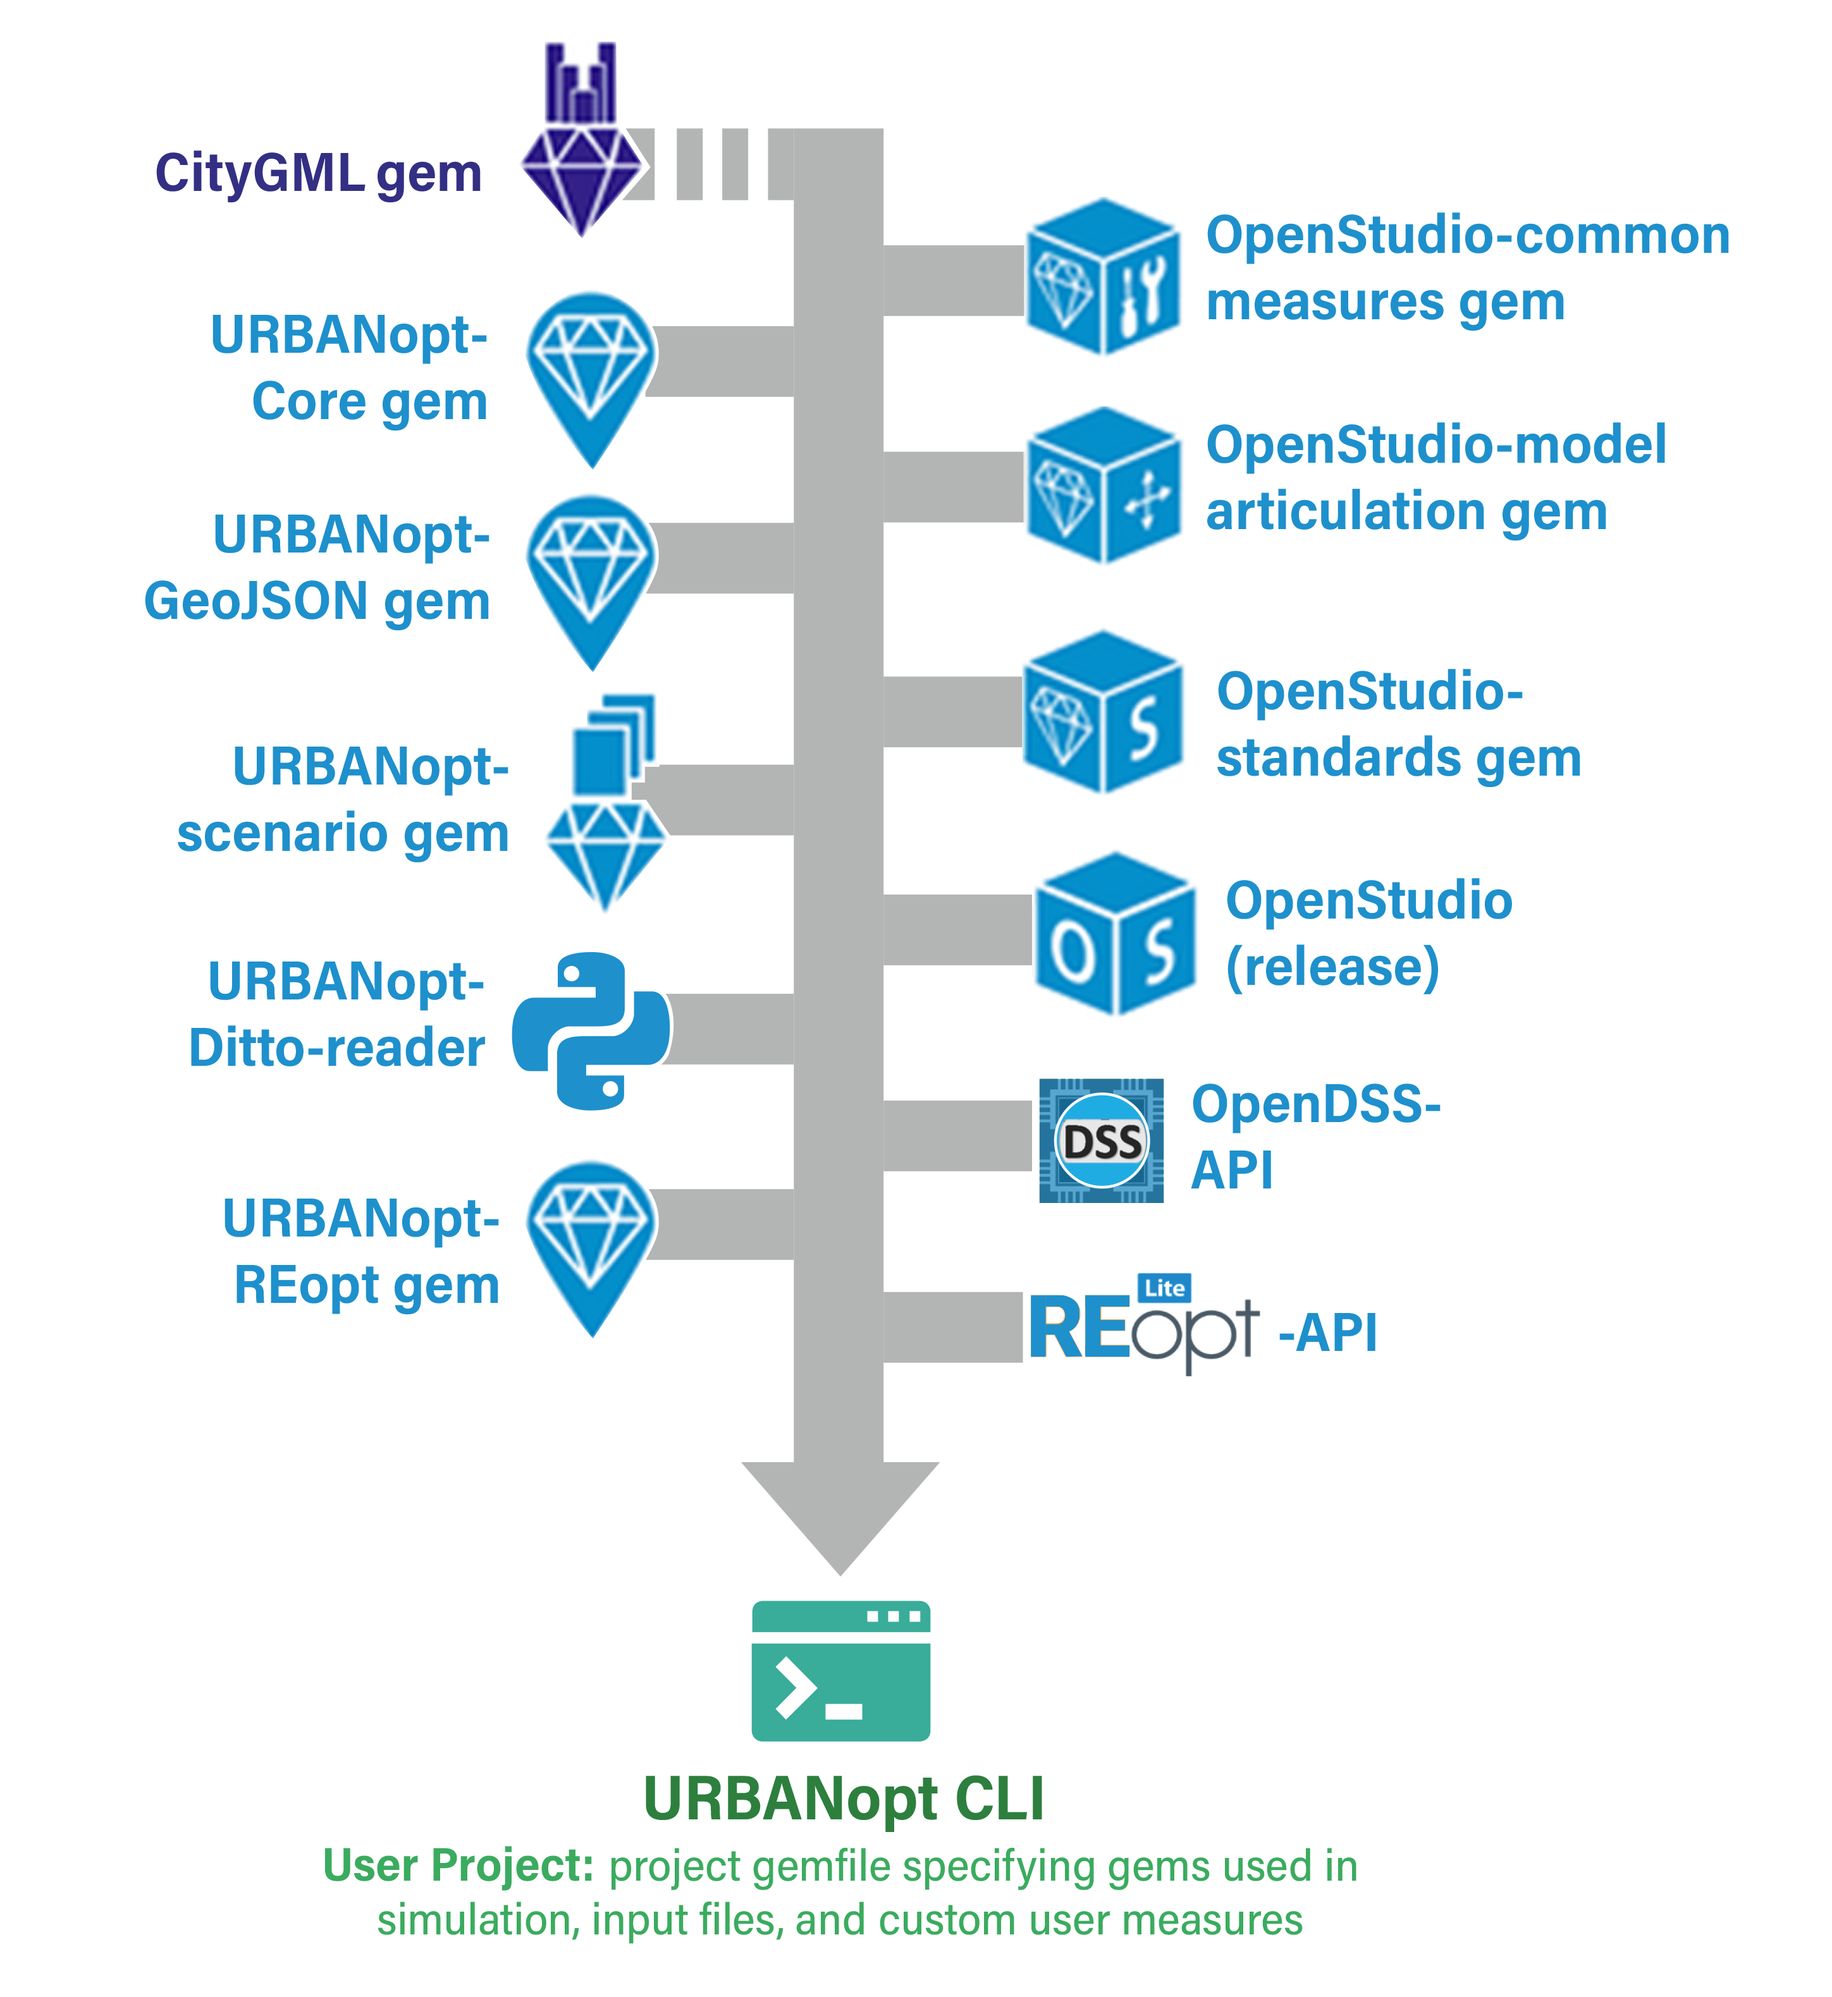
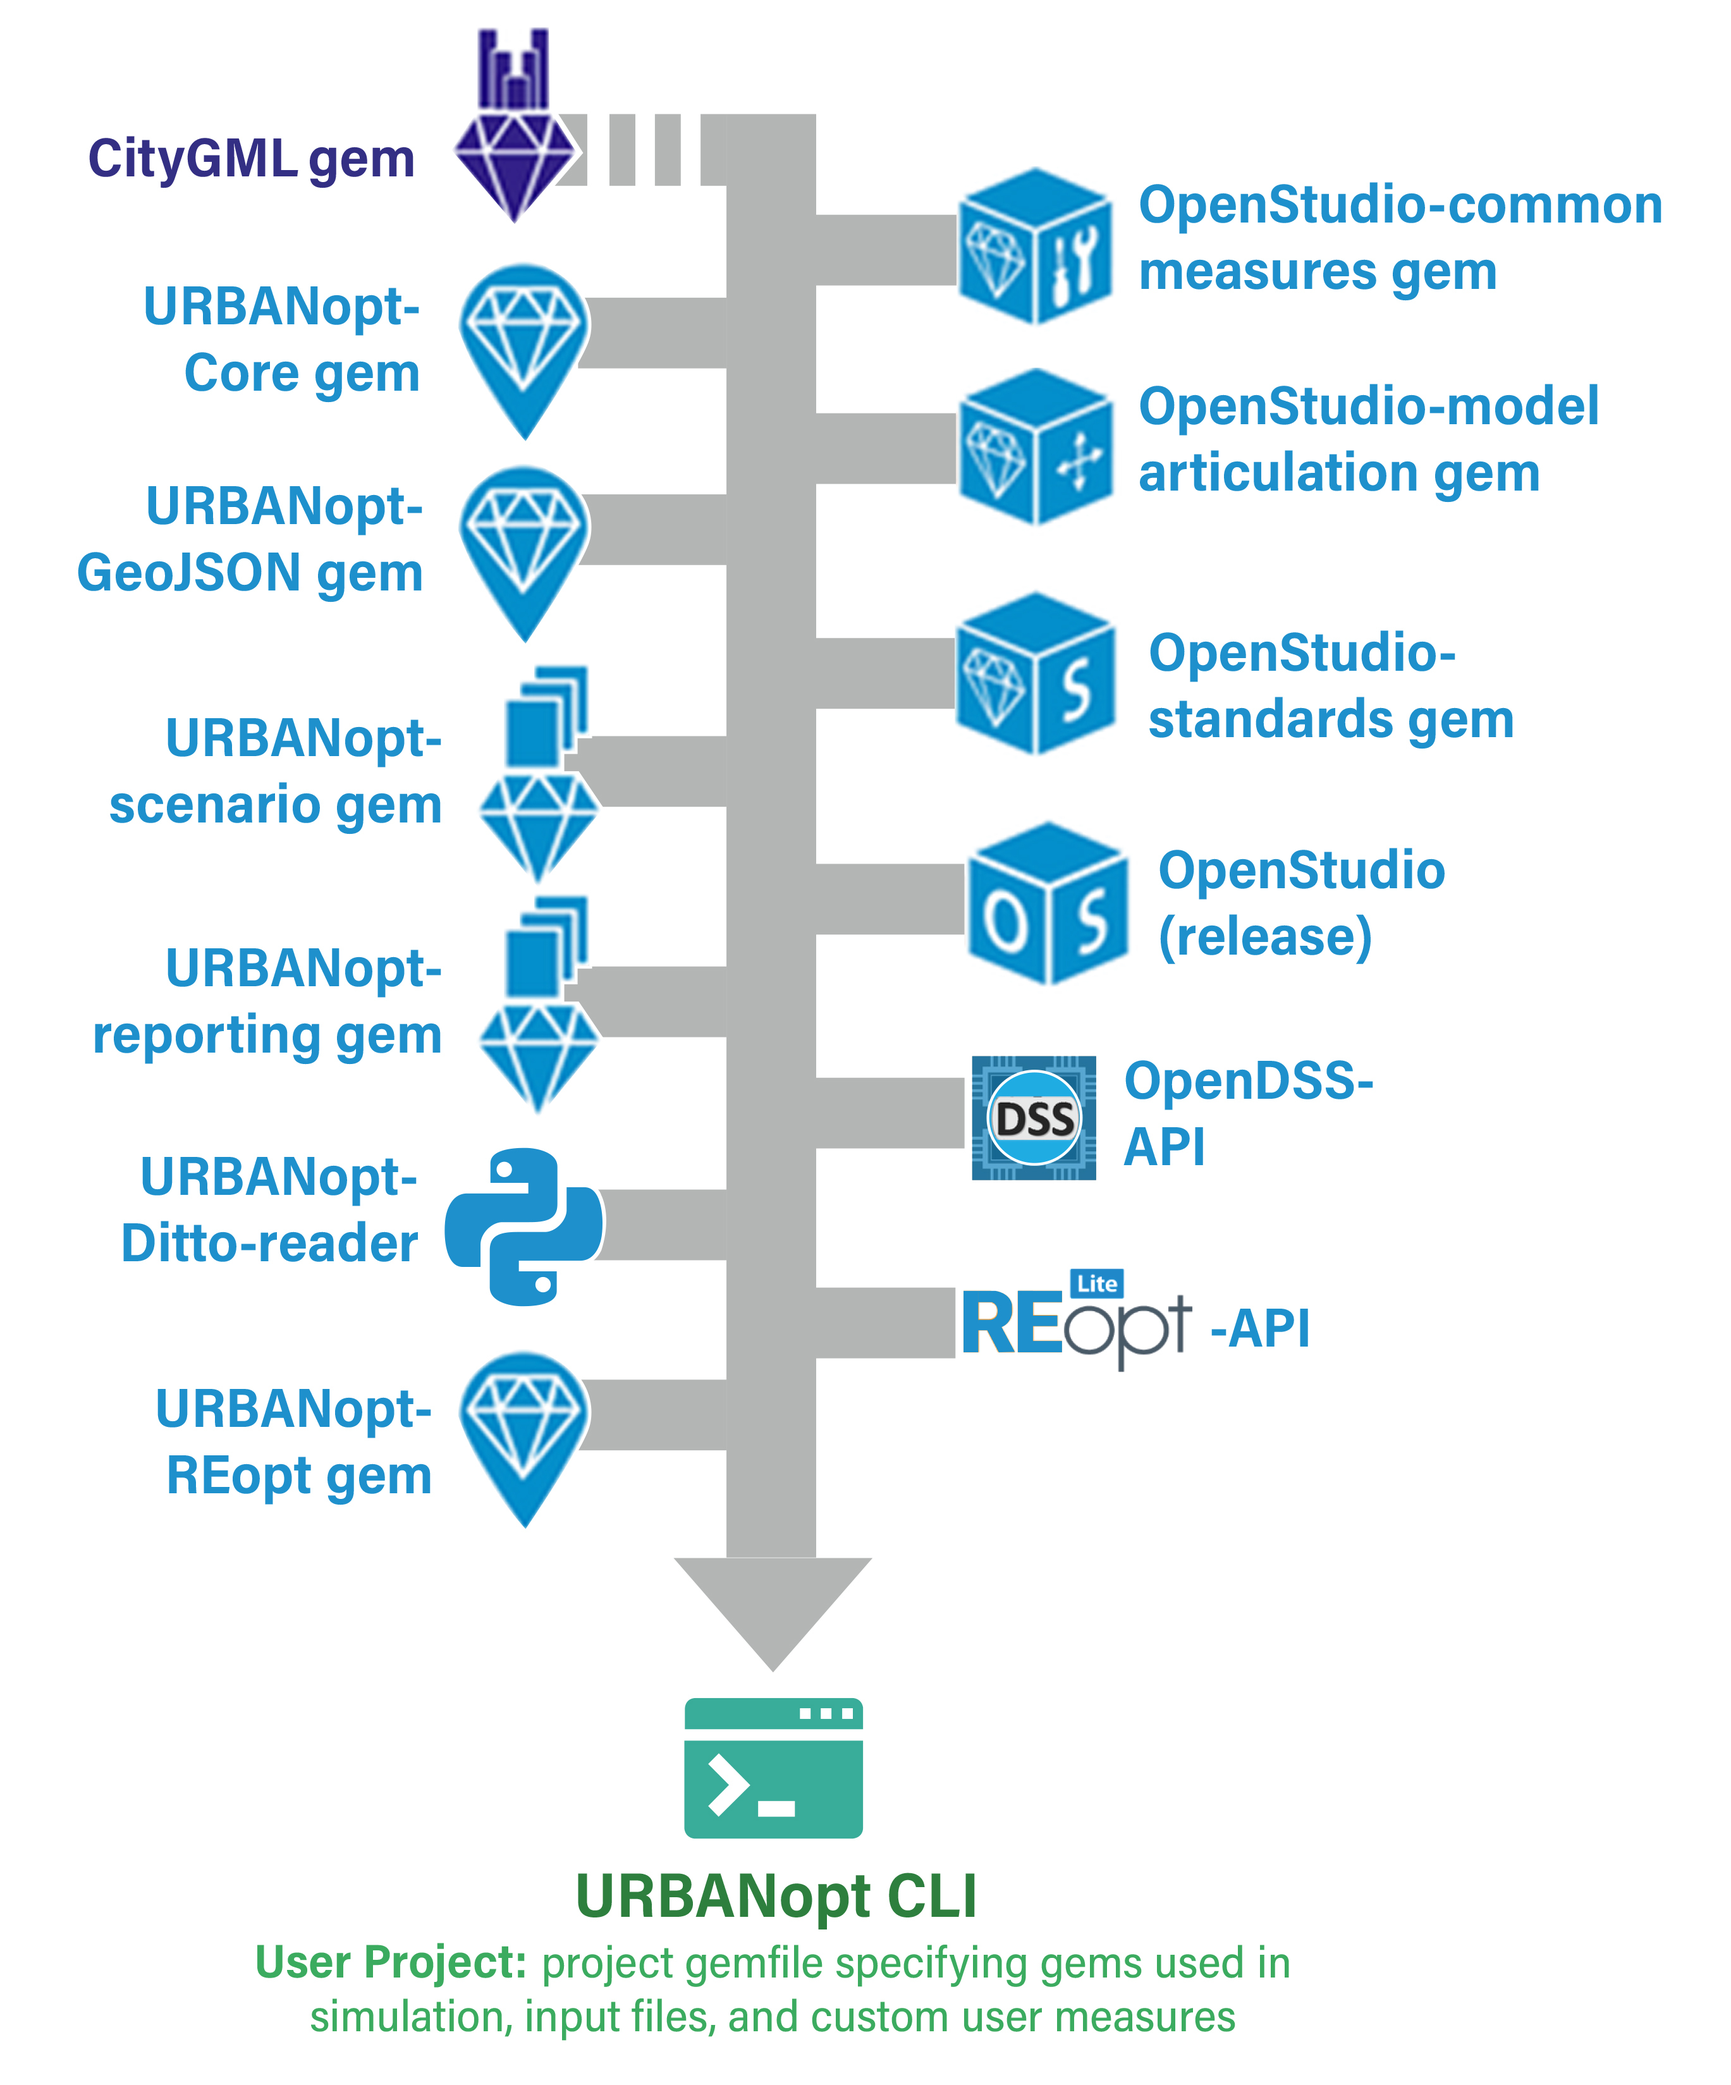
updating figures

Changed region(s): [[0.031, 0.0, 0.9624, 0.9927]]

diff --git a/doc_files/design_doc.md b/doc_files/design_doc.md
@@ -69,7 +69,7 @@ The communities and urban design space is too large for any tool, SDK, or engine
 In line with the software design principles outlined above, URBANopt projects are assembled from multiple functional modules. Because there is so much variability in district-scale energy analysis, the end user is responsible for combining all of the URBANopt (and other) modules needed to implement the desired workflow for their project.  Multiple example projects will be provided to give users a point of reference when starting out.
 
 Figure 3: Software Architecture for an Example URBANopt Project
-![uo_architecture_example](uo_architecture_example.jpg)
+![uo_architecture_example](uo_platform_diagram_f.jpg)
 
 The example project shown in Figure 3 combines a set of URBANopt modules to implement a
 basic district-scale energy analysis workflow.  Each block shown in Figure 3 represents a
